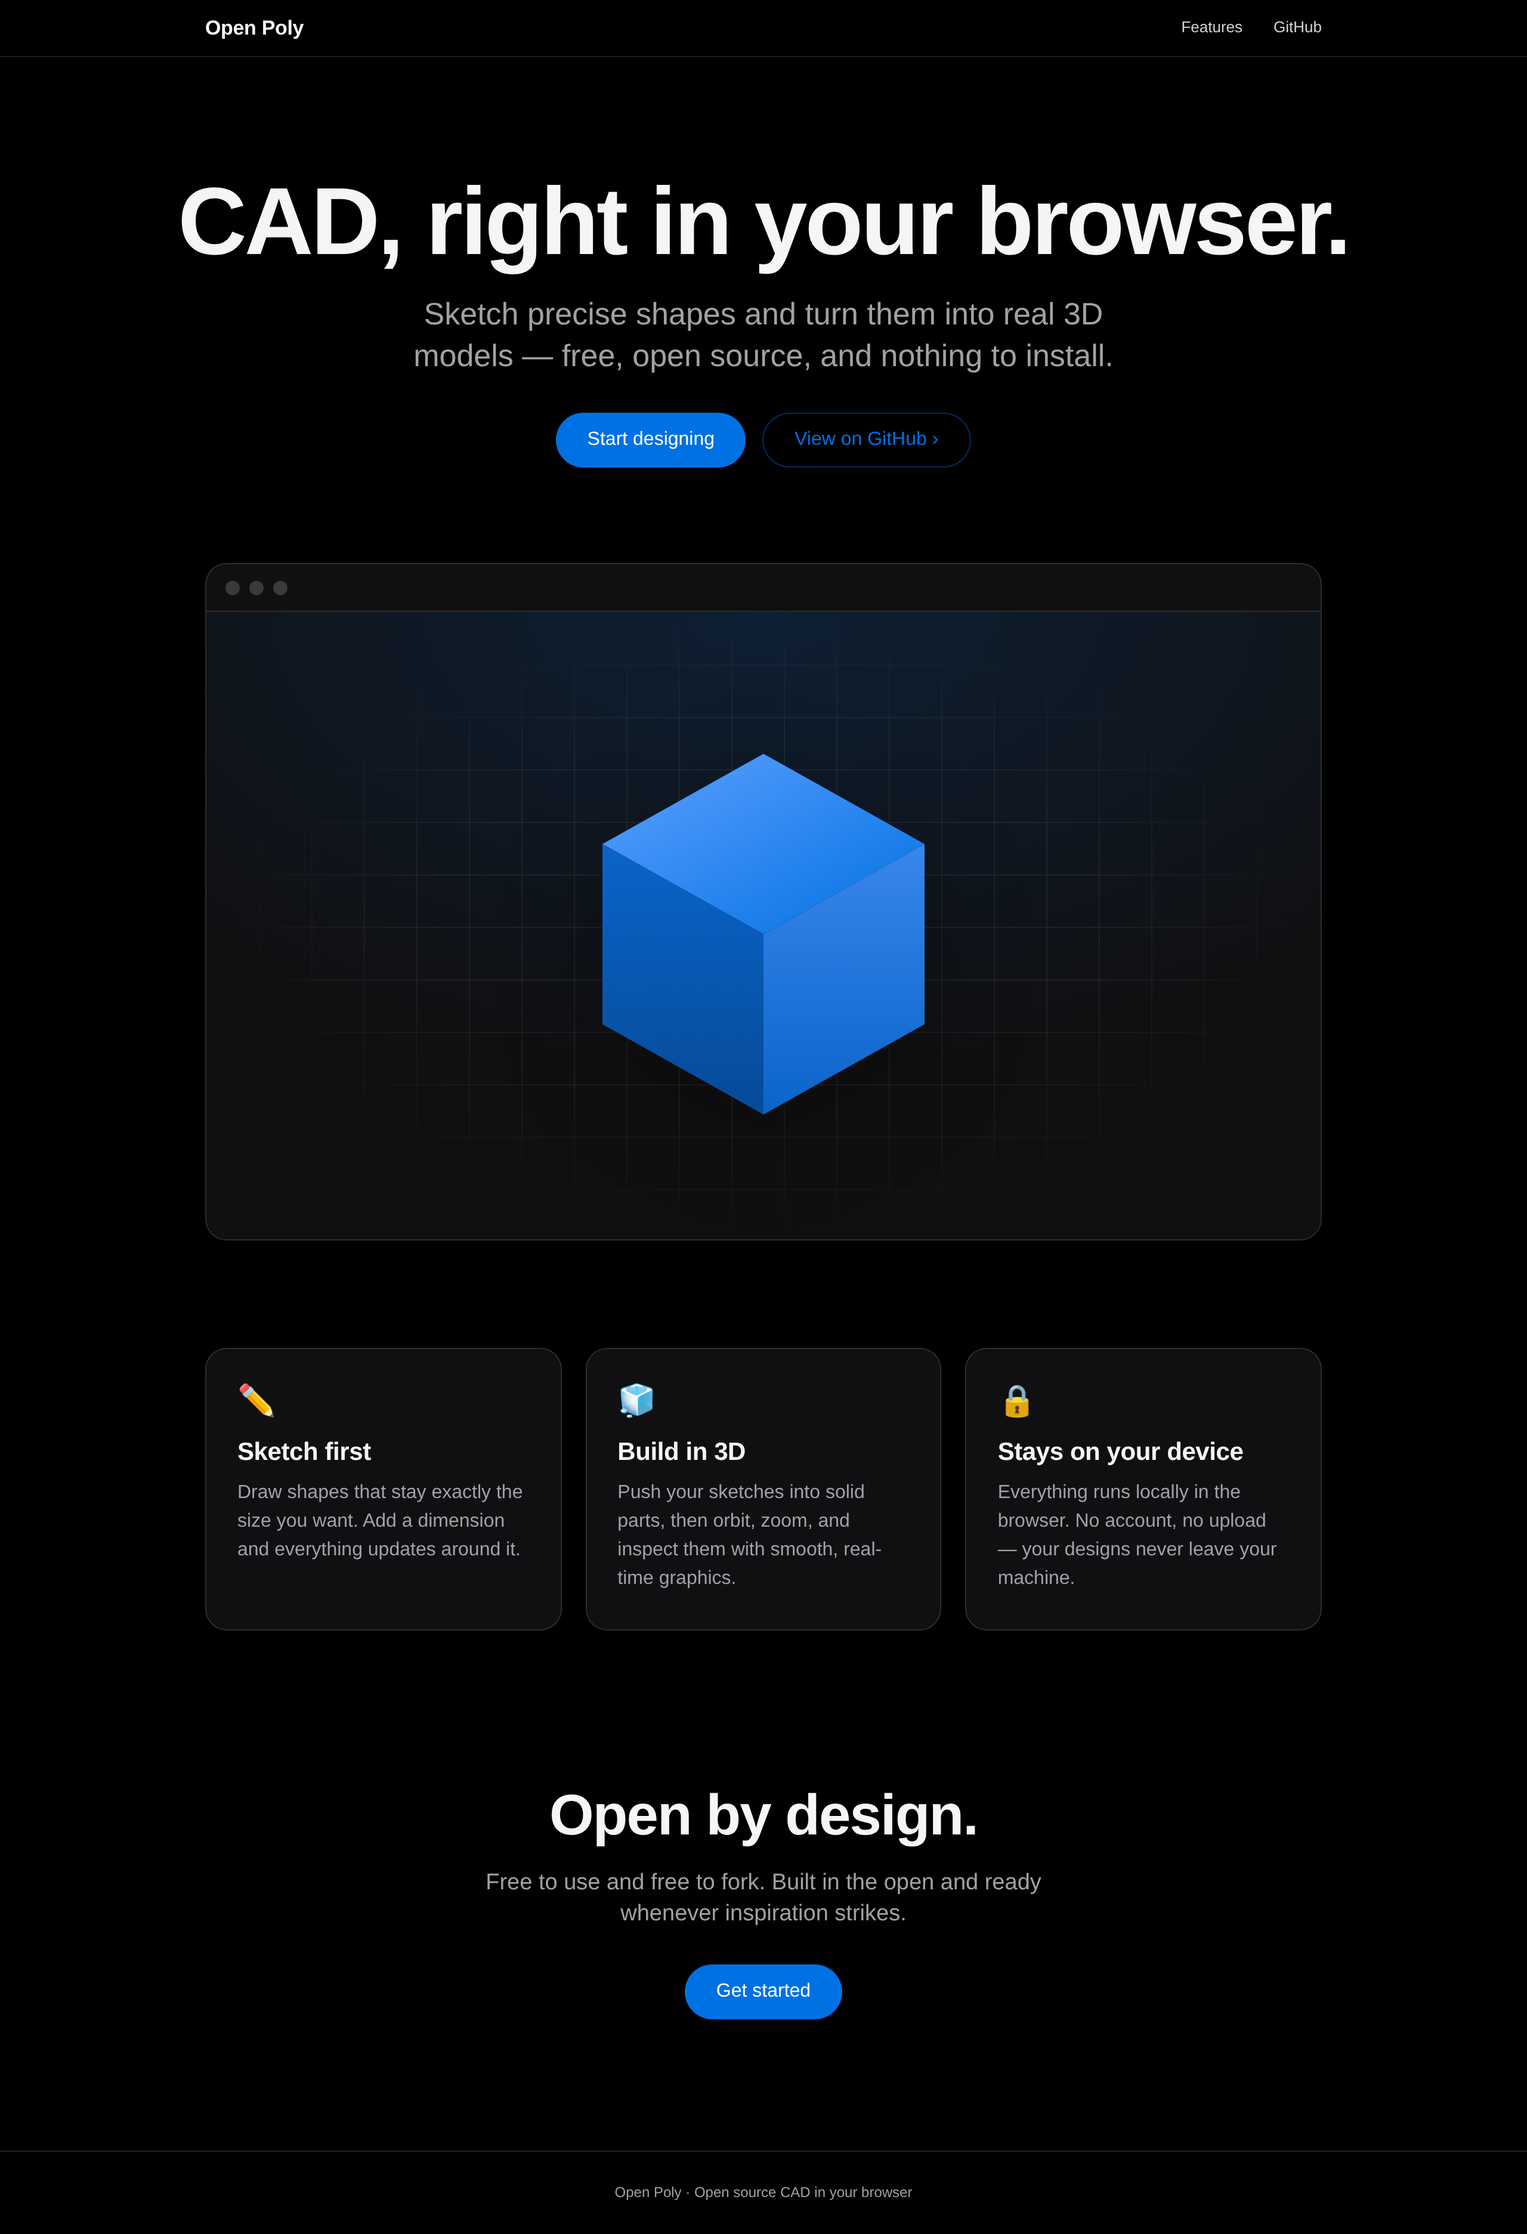
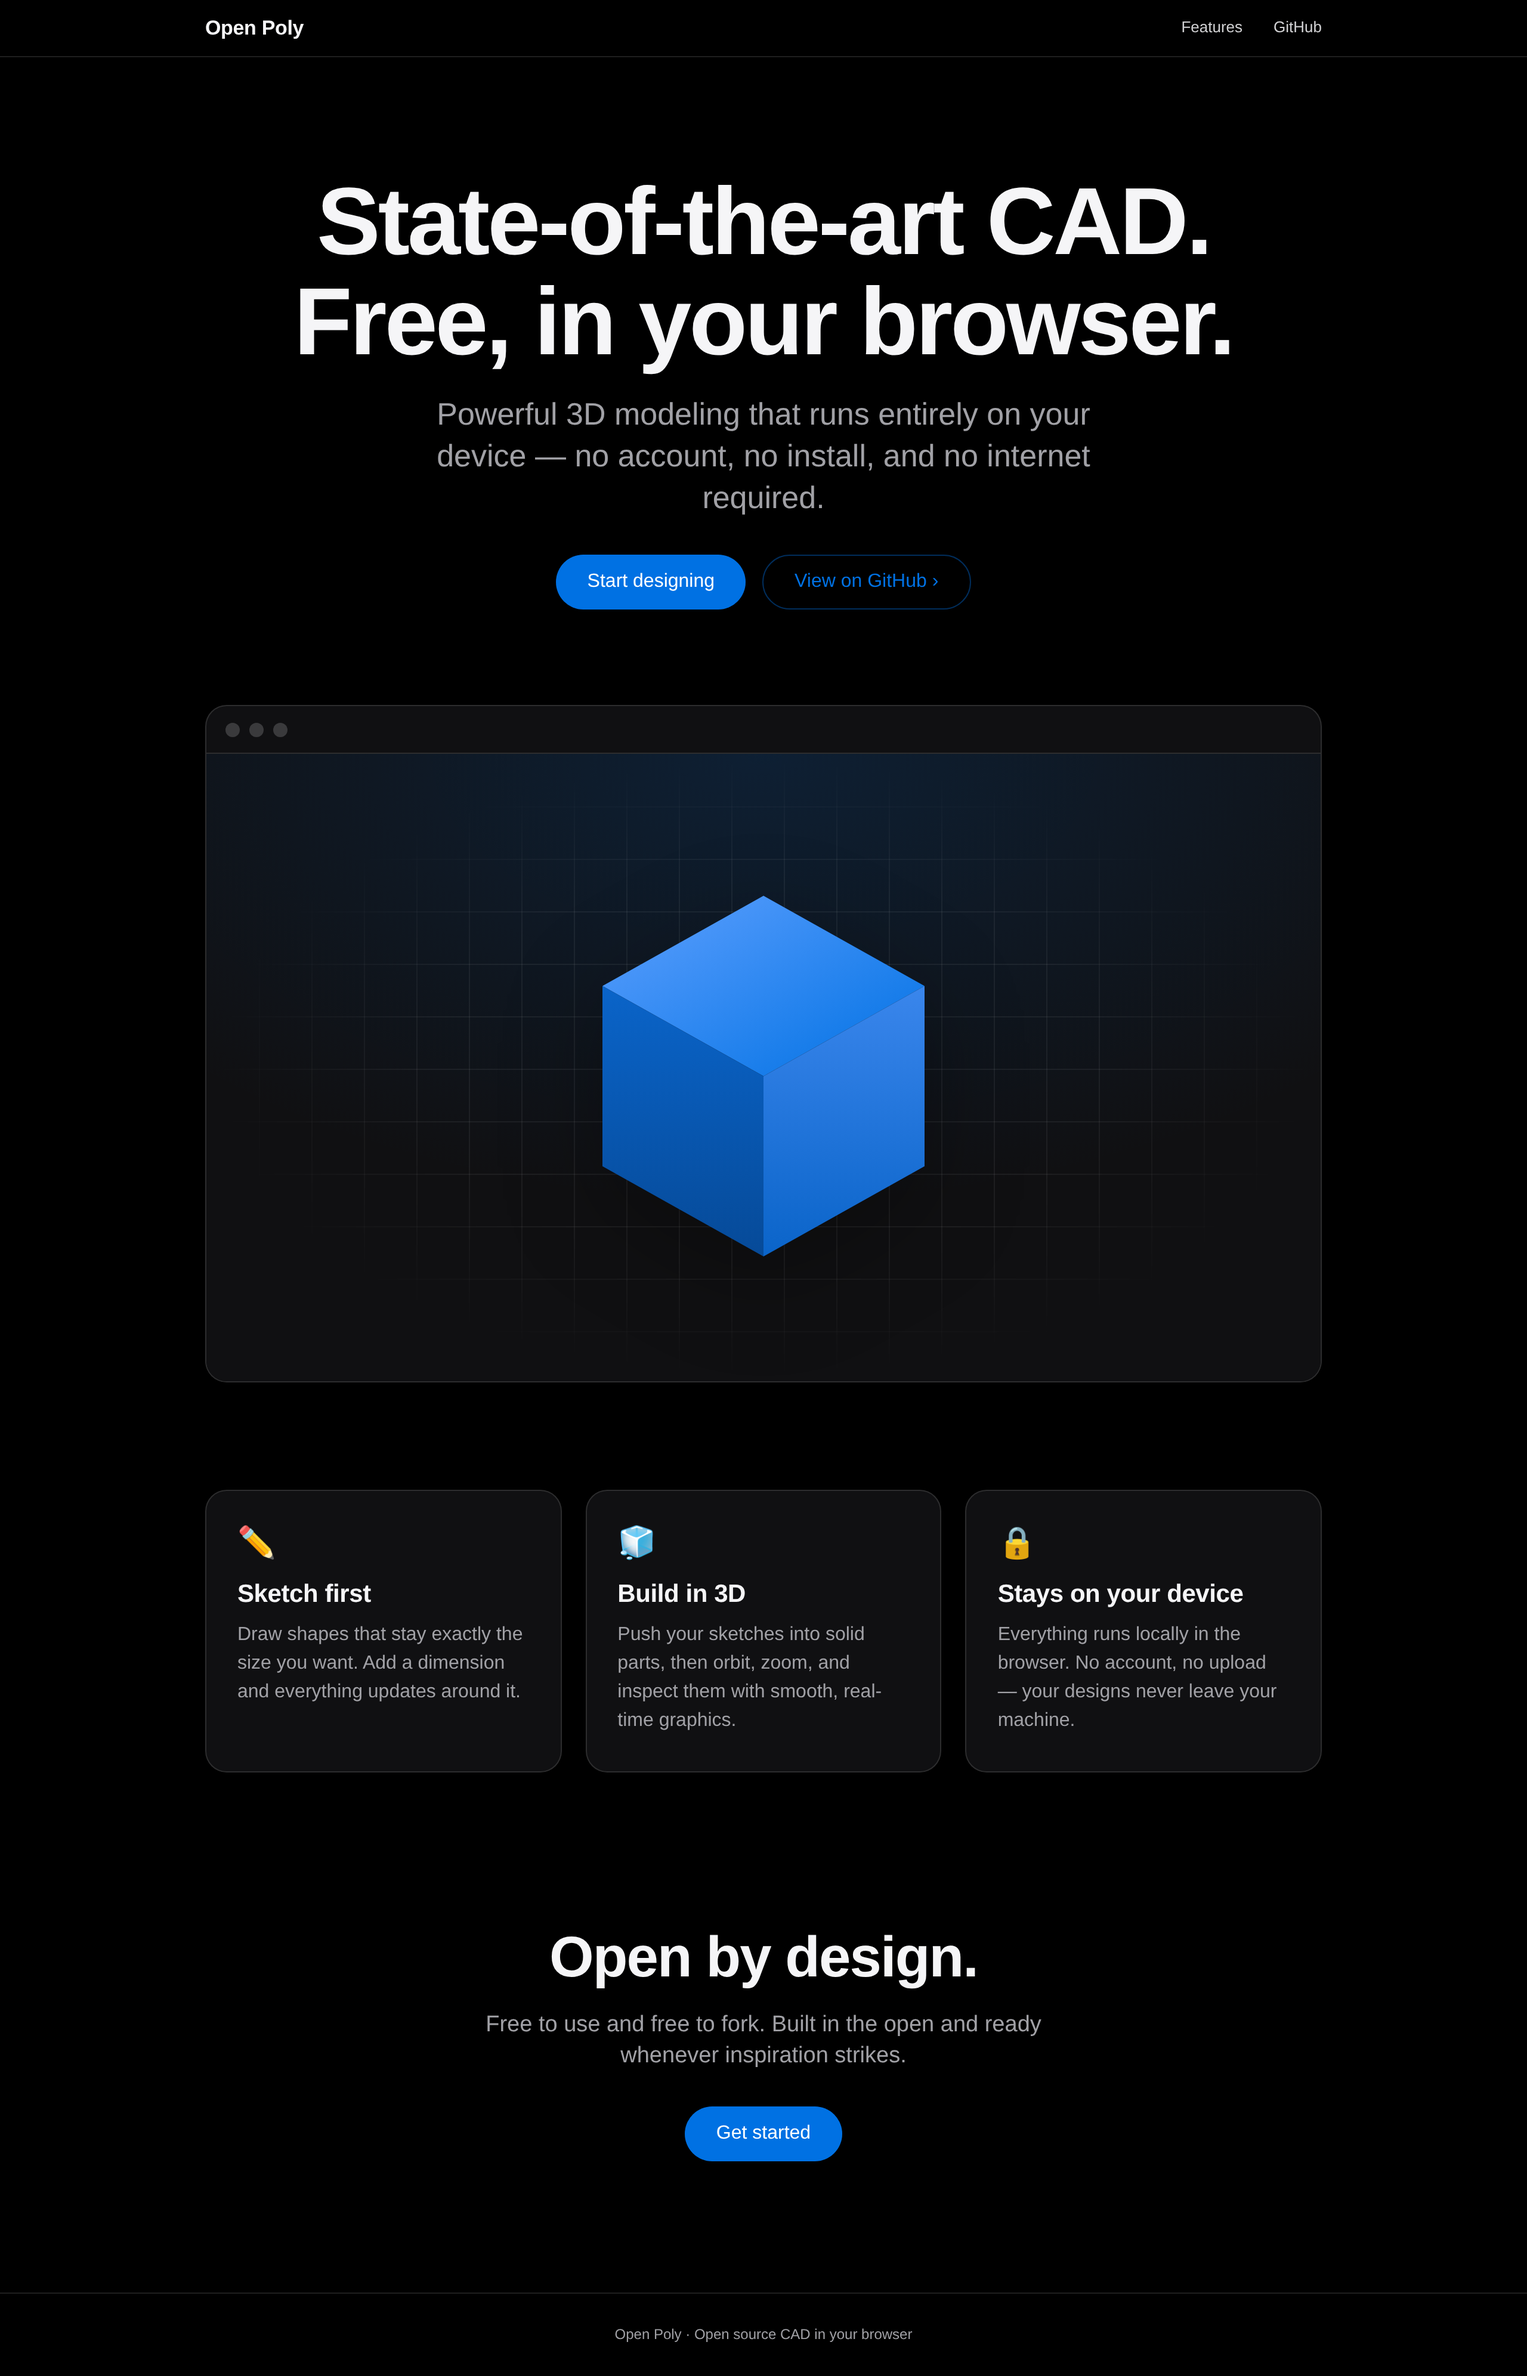
Landing: emphasize state-of-the-art, free, offline in headline
Claude-Session: https://claude.ai/code/session_01BQqHp2NfNKEy9Vu1qH4FAs

diff --git a/landing/index.html b/landing/index.html
@@ -300,10 +300,10 @@
     </nav>
 
     <header class="hero">
-      <h1>CAD, right in your browser.</h1>
+      <h1>State-of-the-art CAD.<br />Free, in your browser.</h1>
       <p class="sub">
-        Sketch precise shapes and turn them into real 3D models — free, open
-        source, and nothing to install.
+        Powerful 3D modeling that runs entirely on your device — no account, no
+        install, and no internet required.
       </p>
       <div class="cta">
         <a class="btn btn--primary" href="#">Start designing</a>
